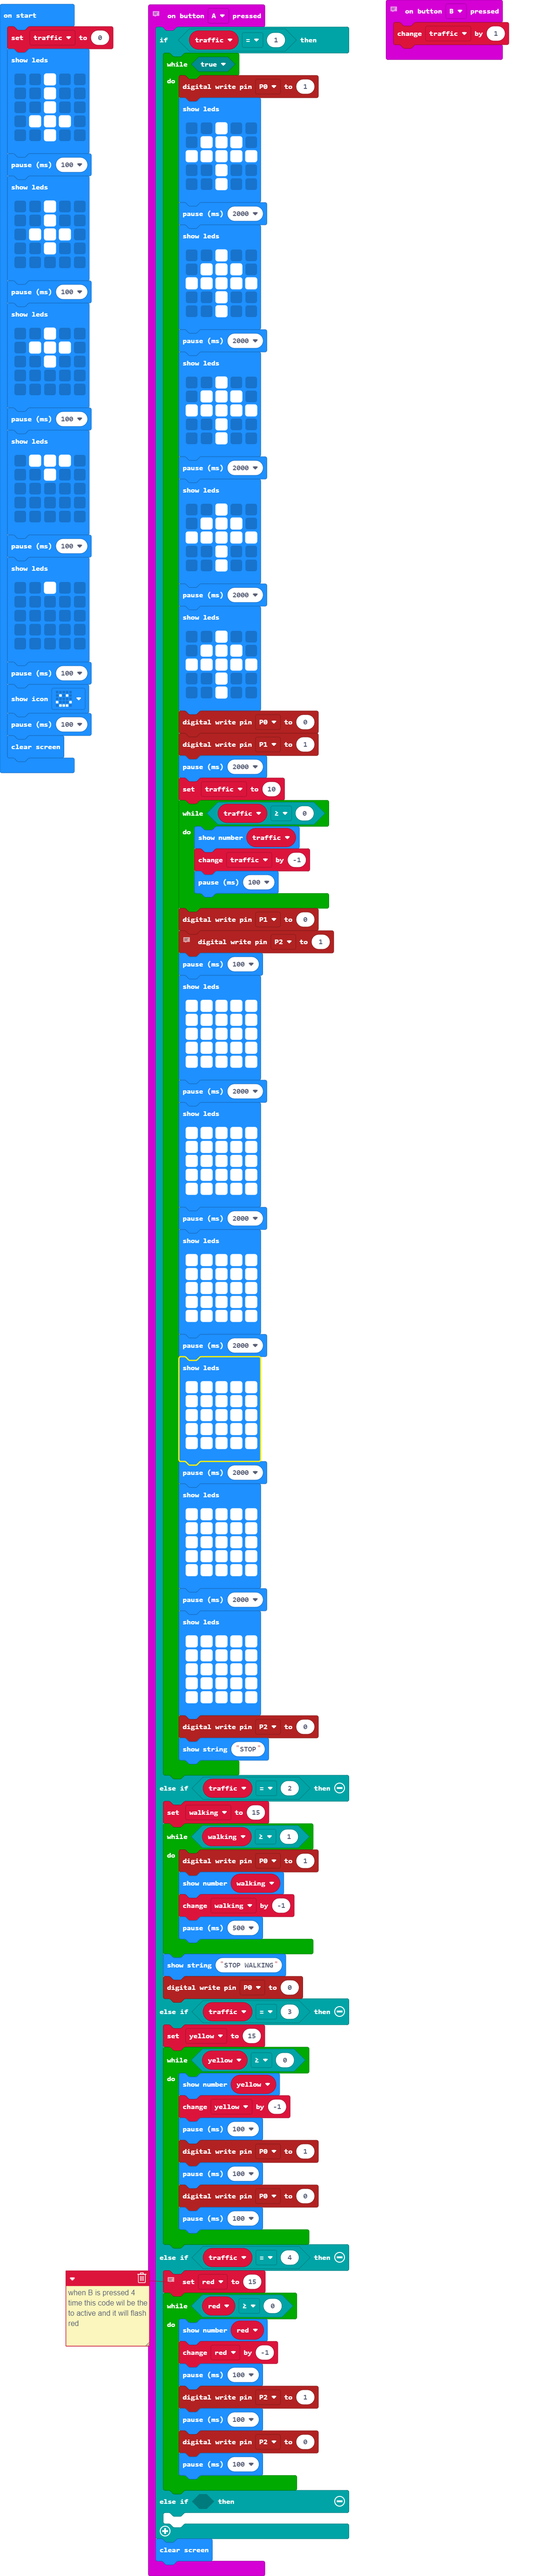
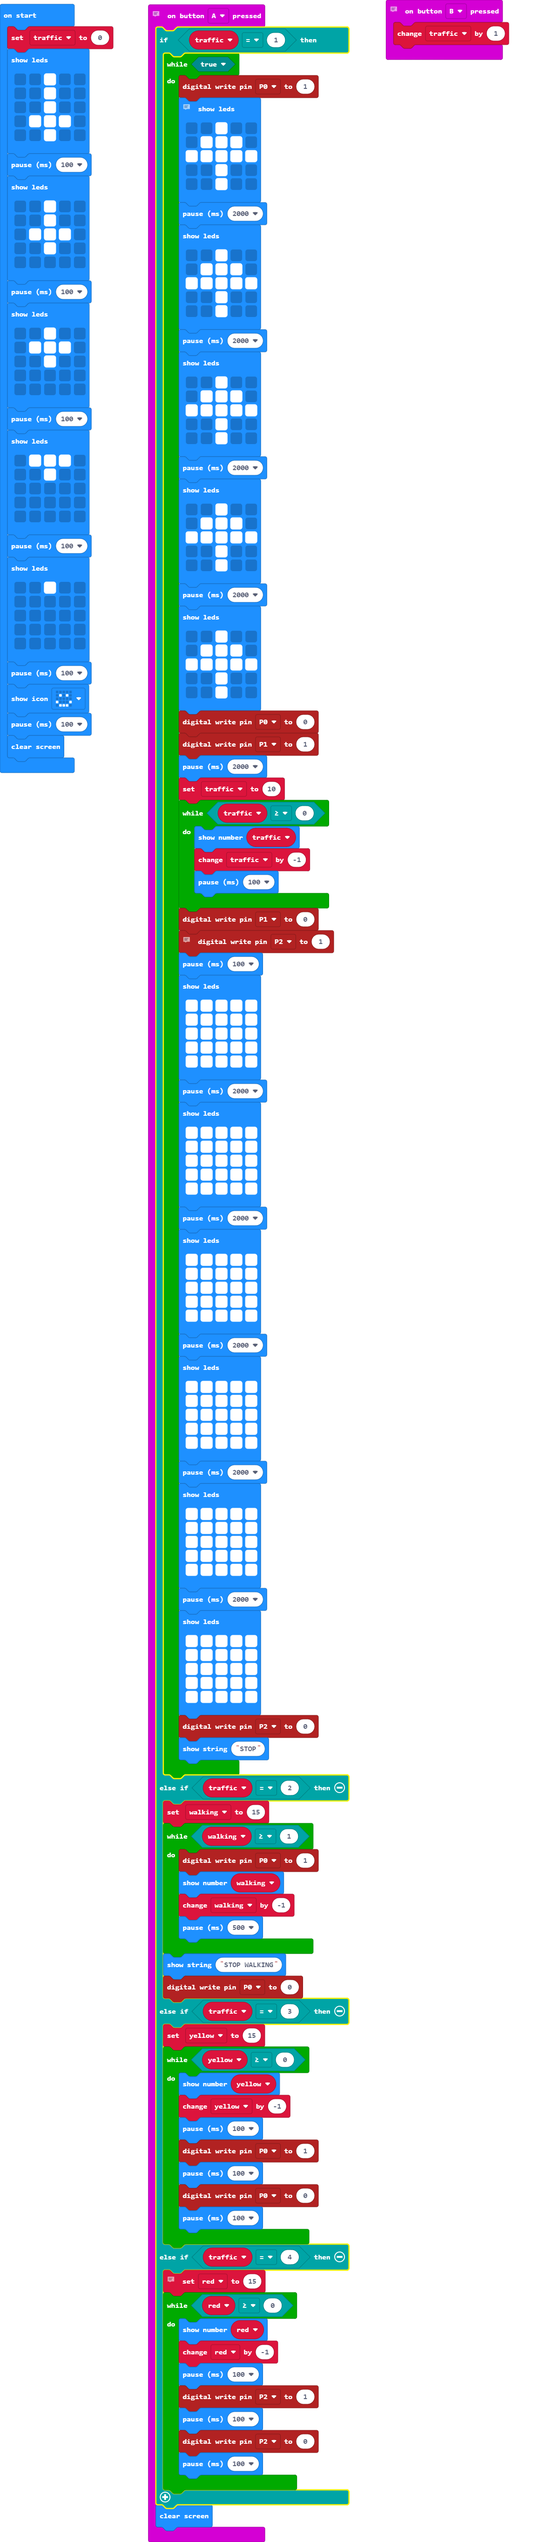
Update main.blocks, main.ts

Changed region(s): [[0.1223, 0.0, 0.6725, 0.9962], [0.0, 0.0, 0.1834, 0.3113]]

diff --git a/main.ts b/main.ts
@@ -3,6 +3,7 @@ input.onButtonPressed(Button.A, function () {
     if (traffic == 1) {
         while (true) {
             pins.digitalWritePin(DigitalPin.P0, 1)
+            // when i press b one time ths code will put an arrow for about 10 to 12 seconds 
             basic.showLeds(`
                 . . # . .
                 . # # # .
@@ -52,7 +53,7 @@ input.onButtonPressed(Button.A, function () {
                 basic.pause(100)
             }
             pins.digitalWritePin(DigitalPin.P1, 0)
-            // on red you will have to wait for 4 seconds after the 4 second it will go bac to green
+            // on red you will have to wait for 13 to 15 seconds after the time  it will go bac to green
             pins.digitalWritePin(DigitalPin.P2, 1)
             basic.pause(100)
             basic.showLeds(`
@@ -138,8 +139,6 @@ input.onButtonPressed(Button.A, function () {
             pins.digitalWritePin(DigitalPin.P2, 0)
             basic.pause(100)
         }
-    } else if (false) {
-    	
     }
     basic.clearScreen()
 })
